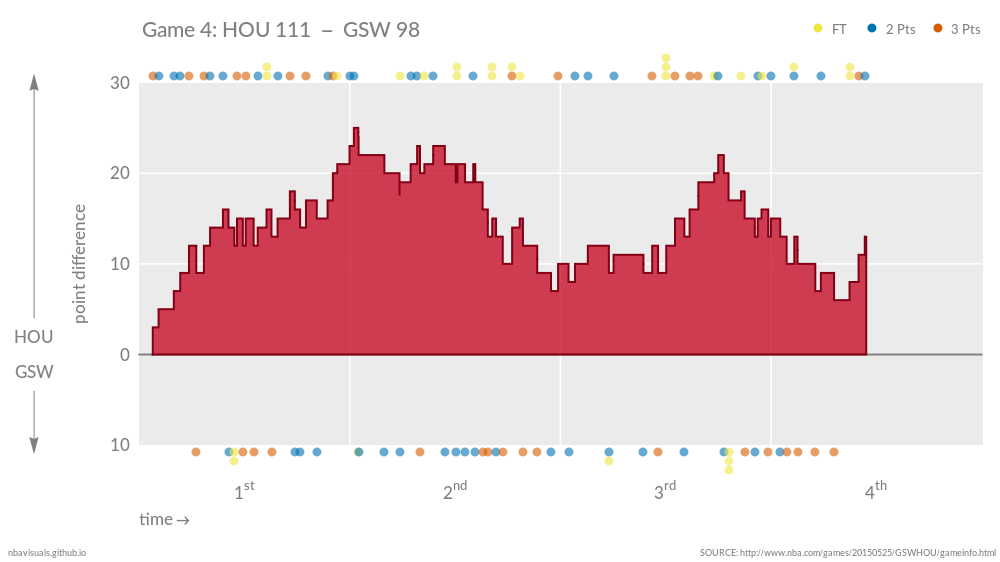
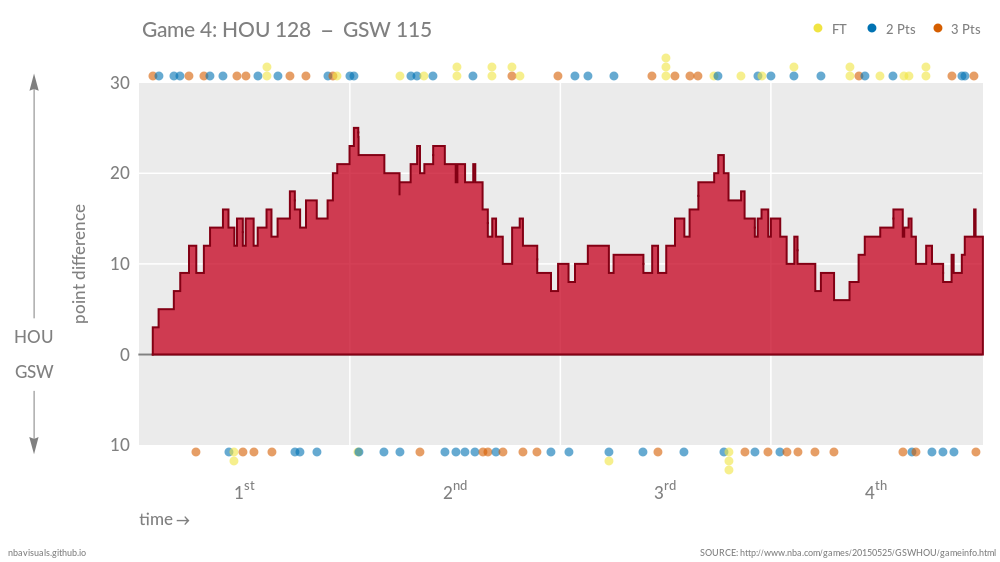
HOU GSW gm4

diff --git a/HOU_GSW.html b/HOU_GSW.html
@@ -689,6 +689,23 @@ Houston - Golden State
 <map name="4">
 <area shape="rect" coords="700,559,996,539" href="http://www.nba.com/games/20150525/GSWHOU/gameinfo.html" />
 <area shape="rect" coords="7,559,85,539" href="http://nbavisuals.github.io" />
+<area shape="rect" coords="971,241,979,233" title="128-115" nohref="" />
+<area shape="rect" coords="969,214,977,206" title="128-112" nohref="" />
+<area shape="rect" coords="960,241,968,233" title="125-112" nohref="" />
+<area shape="rect" coords="957,259,965,251" title="123-112" nohref="" />
+<area shape="rect" coords="949,277,957,269" title="121-112" nohref="" />
+<area shape="rect" coords="947,259,955,251" title="121-110" nohref="" />
+<area shape="rect" coords="938,286,946,278" title="118-110" nohref="" />
+<area shape="rect" coords="927,268,935,260" title="118-108" nohref="" />
+<area shape="rect" coords="921,250,929,242" title="118-106" nohref="" />
+<area shape="rect" coords="921,259,929,251" title="117-106" nohref="" />
+<area shape="rect" coords="911,268,919,260" title="116-106" nohref="" />
+<area shape="rect" coords="907,241,915,233" title="116-103" nohref="" />
+<area shape="rect" coords="904,223,912,215" title="116-101" nohref="" />
+<area shape="rect" coords="899,232,907,224" title="115-101" nohref="" />
+<area shape="rect" coords="898,241,906,233" title="114-101" nohref="" />
+<area shape="rect" coords="888,214,896,206" title="114-98" nohref="" />
+<area shape="rect" coords="875,232,883,224" title="112-98" nohref="" />
 <area shape="rect" coords="860,241,868,233" title="111-98" nohref="" />
 <area shape="rect" coords="854,259,862,251" title="109-98" nohref="" />
 <area shape="rect" coords="845,286,853,278" title="106-98" nohref="" />
@@ -791,6 +808,23 @@ Houston - Golden State
 <area shape="rect" coords="169,295,177,287" title="7-0" nohref="" />
 <area shape="rect" coords="154,313,162,305" title="5-0" nohref="" />
 <area shape="rect" coords="148,331,156,323" title="3-0" nohref="" />
+<area shape="rect" coords="969,458,981,446" title="00:20 - Iguodala 3pt Shot: Made (13 PTS), 128-115" nohref="" />
+<area shape="rect" coords="967,82,979,70" title="00:25 - Harden 3pt Shot: Made (45 PTS), 128-112" nohref="" />
+<area shape="rect" coords="958,82,970,70" title="00:57 - Ariza Dunk Shot: Made (17 PTS) Assist: Terry (4 AST), 125-112" nohref="" />
+<area shape="rect" coords="955,82,967,70" title="01:07 - Jones Layup Shot: Made (14 PTS) Assist: Harden (5 AST), 123-112" nohref="" />
+<area shape="rect" coords="947,458,959,446" title="01:35 - Curry Driving Bank shot: Made (23 PTS), 121-112" nohref="" />
+<area shape="rect" coords="945,82,957,70" title="01:42 - Harden 3pt Shot: Made (42 PTS), 121-110" nohref="" />
+<area shape="rect" coords="936,458,948,446" title="02:11 - Iguodala Dunk Shot: Made (10 PTS) Assist: Curry (4 AST), 118-110" nohref="" />
+<area shape="rect" coords="925,458,937,446" title="02:49 - Barnes Turnaround Jump Shot: Made (14 PTS) Assist: Barbosa (2 AST), 118-108" nohref="" />
+<area shape="rect" coords="919,73,931,61" title="03:09 - Harden Free Throw 2 of 2 (39 PTS), 118-106" nohref="" />
+<area shape="rect" coords="919,82,931,70" title="03:09 - Harden Free Throw 1 of 2 (38 PTS), 117-106" nohref="" />
+<area shape="rect" coords="909,458,921,446" title="03:44 - Curry 3pt Shot: Made (21 PTS), 116-106" nohref="" />
+<area shape="rect" coords="905,458,917,446" title="03:59 - Thompson Driving Layup Shot: Made (24 PTS), 116-103" nohref="" />
+<area shape="rect" coords="902,82,914,70" title="04:09 - Smith Free Throw 1 of 2 (20 PTS), 116-101" nohref="" />
+<area shape="rect" coords="897,82,909,70" title="04:24 - Smith Free Throw 1 of 2 (19 PTS), 115-101" nohref="" />
+<area shape="rect" coords="896,458,908,446" title="04:29 - Curry 3pt Shot: Made (18 PTS) Assist: Barnes (3 AST), 114-101" nohref="" />
+<area shape="rect" coords="886,82,898,70" title="05:01 - Howard Alley Oop Dunk Shot: Made (14 PTS) Assist: Harden (4 AST), 114-98" nohref="" />
+<area shape="rect" coords="873,82,885,70" title="05:46 - Smith Free Throw 1 of 2 (18 PTS), 112-98" nohref="" />
 <area shape="rect" coords="858,82,870,70" title="06:39 - Harden Layup Shot: Made (37 PTS) Assist: Smith (5 AST), 111-98" nohref="" />
 <area shape="rect" coords="852,82,864,70" title="07:00 - Harden 3pt Shot: Made (35 PTS), 109-98" nohref="" />
 <area shape="rect" coords="843,73,855,61" title="07:31 - Harden Free Throw 2 of 2 (32 PTS), 106-98" nohref="" />

diff --git a/HOUGSW_Game4.html b/HOUGSW_Game4.html
@@ -19,6 +19,23 @@
 <map name="map_1">
 <area shape="rect" coords="700,559,996,539" href="http://www.nba.com/games/20150525/GSWHOU/gameinfo.html" />
 <area shape="rect" coords="7,559,85,539" href="http://nbavisuals.github.io" />
+<area shape="rect" coords="971,241,979,233" title="128-115" nohref="" />
+<area shape="rect" coords="969,214,977,206" title="128-112" nohref="" />
+<area shape="rect" coords="960,241,968,233" title="125-112" nohref="" />
+<area shape="rect" coords="957,259,965,251" title="123-112" nohref="" />
+<area shape="rect" coords="949,277,957,269" title="121-112" nohref="" />
+<area shape="rect" coords="947,259,955,251" title="121-110" nohref="" />
+<area shape="rect" coords="938,286,946,278" title="118-110" nohref="" />
+<area shape="rect" coords="927,268,935,260" title="118-108" nohref="" />
+<area shape="rect" coords="921,250,929,242" title="118-106" nohref="" />
+<area shape="rect" coords="921,259,929,251" title="117-106" nohref="" />
+<area shape="rect" coords="911,268,919,260" title="116-106" nohref="" />
+<area shape="rect" coords="907,241,915,233" title="116-103" nohref="" />
+<area shape="rect" coords="904,223,912,215" title="116-101" nohref="" />
+<area shape="rect" coords="899,232,907,224" title="115-101" nohref="" />
+<area shape="rect" coords="898,241,906,233" title="114-101" nohref="" />
+<area shape="rect" coords="888,214,896,206" title="114-98" nohref="" />
+<area shape="rect" coords="875,232,883,224" title="112-98" nohref="" />
 <area shape="rect" coords="860,241,868,233" title="111-98" nohref="" />
 <area shape="rect" coords="854,259,862,251" title="109-98" nohref="" />
 <area shape="rect" coords="845,286,853,278" title="106-98" nohref="" />
@@ -121,6 +138,23 @@
 <area shape="rect" coords="169,295,177,287" title="7-0" nohref="" />
 <area shape="rect" coords="154,313,162,305" title="5-0" nohref="" />
 <area shape="rect" coords="148,331,156,323" title="3-0" nohref="" />
+<area shape="rect" coords="969,458,981,446" title="00:20 - Iguodala 3pt Shot: Made (13 PTS), 128-115" nohref="" />
+<area shape="rect" coords="967,82,979,70" title="00:25 - Harden 3pt Shot: Made (45 PTS), 128-112" nohref="" />
+<area shape="rect" coords="958,82,970,70" title="00:57 - Ariza Dunk Shot: Made (17 PTS) Assist: Terry (4 AST), 125-112" nohref="" />
+<area shape="rect" coords="955,82,967,70" title="01:07 - Jones Layup Shot: Made (14 PTS) Assist: Harden (5 AST), 123-112" nohref="" />
+<area shape="rect" coords="947,458,959,446" title="01:35 - Curry Driving Bank shot: Made (23 PTS), 121-112" nohref="" />
+<area shape="rect" coords="945,82,957,70" title="01:42 - Harden 3pt Shot: Made (42 PTS), 121-110" nohref="" />
+<area shape="rect" coords="936,458,948,446" title="02:11 - Iguodala Dunk Shot: Made (10 PTS) Assist: Curry (4 AST), 118-110" nohref="" />
+<area shape="rect" coords="925,458,937,446" title="02:49 - Barnes Turnaround Jump Shot: Made (14 PTS) Assist: Barbosa (2 AST), 118-108" nohref="" />
+<area shape="rect" coords="919,73,931,61" title="03:09 - Harden Free Throw 2 of 2 (39 PTS), 118-106" nohref="" />
+<area shape="rect" coords="919,82,931,70" title="03:09 - Harden Free Throw 1 of 2 (38 PTS), 117-106" nohref="" />
+<area shape="rect" coords="909,458,921,446" title="03:44 - Curry 3pt Shot: Made (21 PTS), 116-106" nohref="" />
+<area shape="rect" coords="905,458,917,446" title="03:59 - Thompson Driving Layup Shot: Made (24 PTS), 116-103" nohref="" />
+<area shape="rect" coords="902,82,914,70" title="04:09 - Smith Free Throw 1 of 2 (20 PTS), 116-101" nohref="" />
+<area shape="rect" coords="897,82,909,70" title="04:24 - Smith Free Throw 1 of 2 (19 PTS), 115-101" nohref="" />
+<area shape="rect" coords="896,458,908,446" title="04:29 - Curry 3pt Shot: Made (18 PTS) Assist: Barnes (3 AST), 114-101" nohref="" />
+<area shape="rect" coords="886,82,898,70" title="05:01 - Howard Alley Oop Dunk Shot: Made (14 PTS) Assist: Harden (4 AST), 114-98" nohref="" />
+<area shape="rect" coords="873,82,885,70" title="05:46 - Smith Free Throw 1 of 2 (18 PTS), 112-98" nohref="" />
 <area shape="rect" coords="858,82,870,70" title="06:39 - Harden Layup Shot: Made (37 PTS) Assist: Smith (5 AST), 111-98" nohref="" />
 <area shape="rect" coords="852,82,864,70" title="07:00 - Harden 3pt Shot: Made (35 PTS), 109-98" nohref="" />
 <area shape="rect" coords="843,73,855,61" title="07:31 - Harden Free Throw 2 of 2 (32 PTS), 106-98" nohref="" />

diff --git a/index.html b/index.html
@@ -70,7 +70,7 @@ padding:0;
   <h2>Conference Finals</h2>
 <div class="west">
   <h3>West</h3>
-<a href="HOU_GSW.html">Houston - Golden State (0-3)</a>
+<a href="HOU_GSW.html">Houston - Golden State (1-3)</a>
 </div>
 <div class="east">
   <h3>East</h3>
